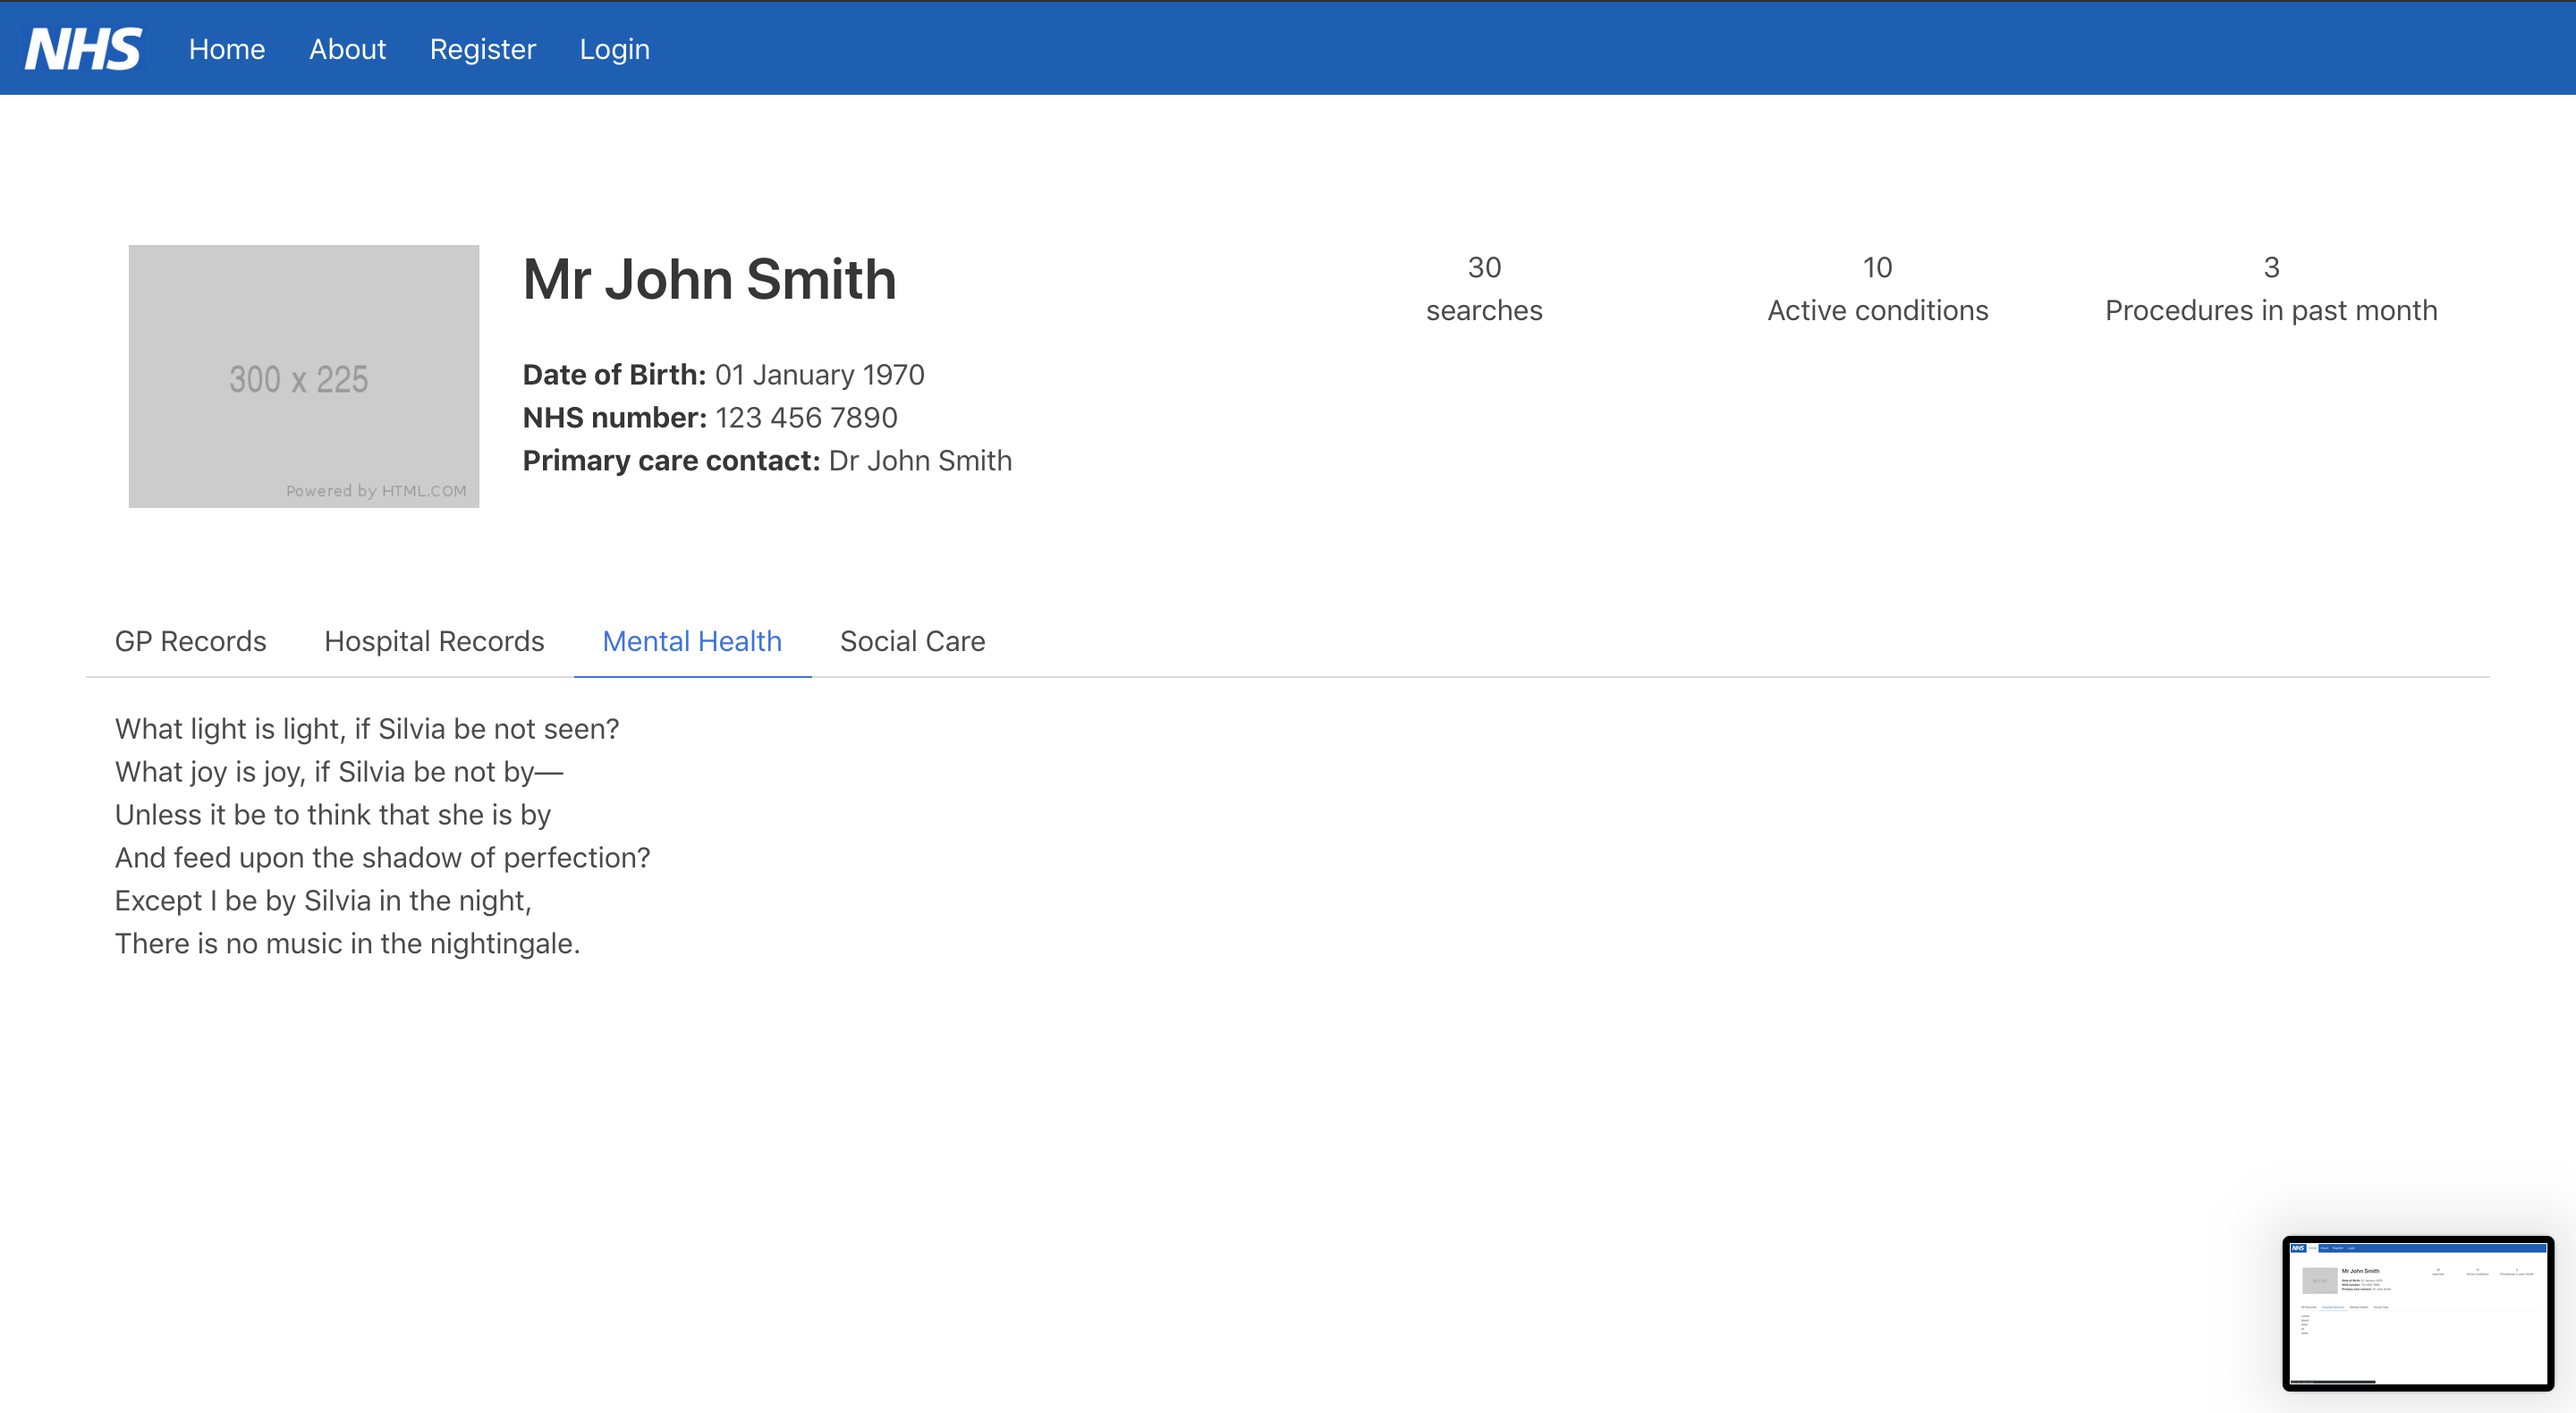
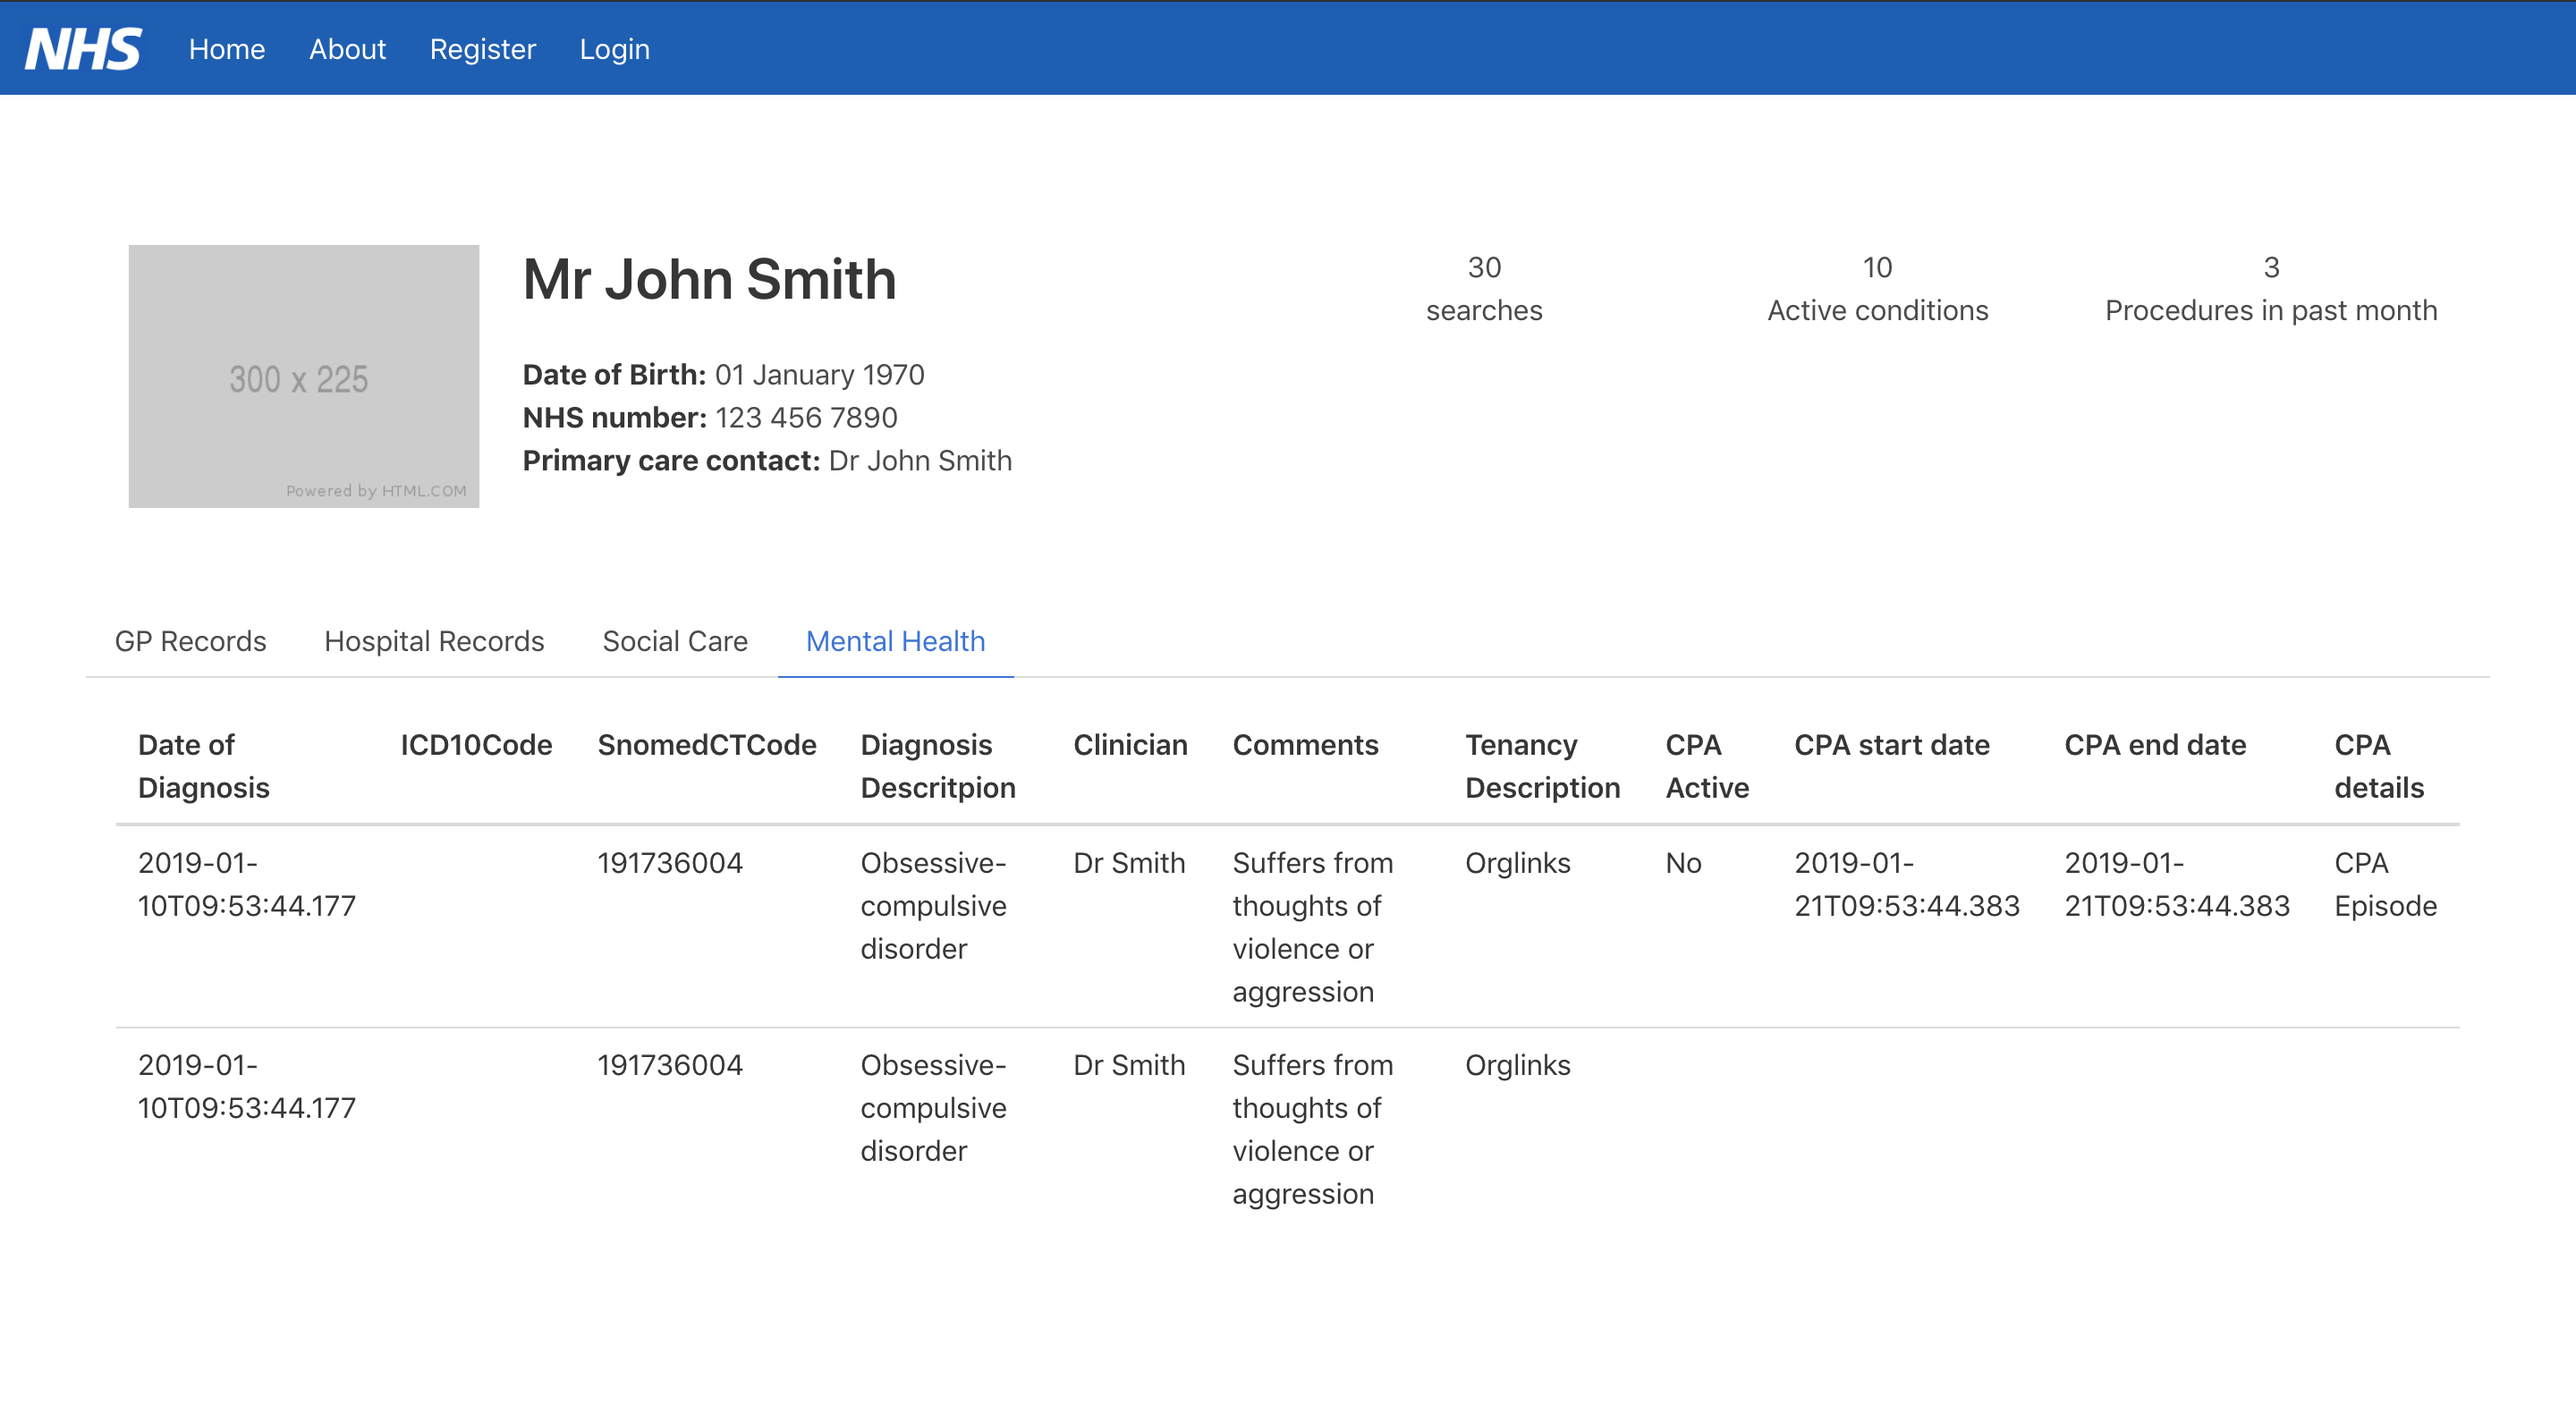
added meds and allergies

diff --git a/src/views/medications.vue b/src/views/medications.vue
@@ -1,0 +1,56 @@
+<template>
+    <b-table :data="data" :columns="columns"></b-table>
+</template>
+
+<script>
+    export default {
+        data() {
+            return {
+              data: [
+                {
+                  "Date": "16 May 2019",
+                  "Name": "Fluoxetine",
+                  "Dose": "20mg OD",
+                  "Prescribed by": "Dr Jones",
+                  "Review Date": "16 July 2019",
+                  "Repeat": "Yes"
+                },
+                {
+                  "Date": "02 February 2018",
+                  "Name": "Codeine",
+                  "Dose": "30mg BD",
+                  "Prescribed by": "Dr Jones",
+                  "Review Date": "-",
+                  "Repeat": "No"
+                }
+              ],
+              columns: [
+                {
+                  field: 'Date',
+                  label: 'Date',
+                },
+                {
+                  field: 'Name',
+                  label: 'Name',
+                },
+                {
+                  field: 'Dose',
+                  label: 'Dose',
+                },
+                {
+                  field: 'Prescribed by',
+                  label: 'Prescribed by',
+                },
+                {
+                  field: 'Review Date',
+                  label: 'Review Date',
+                },
+                {
+                  field: 'Repeat',
+                  label: 'Repeat',
+                }
+              ],
+            }
+        }
+    }
+</script>

diff --git a/src/views/allergies.vue b/src/views/allergies.vue
@@ -1,0 +1,38 @@
+<template>
+    <b-table :data="data" :columns="columns"></b-table>
+</template>
+
+<script>
+    export default {
+        data() {
+            return {
+              data: [
+                {
+                  "Date": "02 February 2018",
+                  "Name": "Codeine",
+                  "Reaction": "Vomiting",
+                  "Prescribed by": "Dr Jones",
+                }
+              ],
+              columns: [
+                {
+                  field: 'Date',
+                  label: 'Date',
+                },
+                {
+                  field: 'Name',
+                  label: 'Name',
+                },
+                {
+                  field: 'Reaction',
+                  label: 'Reaction',
+                },
+                {
+                  field: 'Prescribed by',
+                  label: 'Prescribed by',
+                },
+              ],
+            }
+        }
+    }
+</script>

diff --git a/src/views/Profile.vue b/src/views/Profile.vue
@@ -136,8 +136,16 @@
           <mental-health/>
         </b-tab-item>
 
+        <b-tab-item label="Allergies">
+          <allergies/>
+        </b-tab-item>
+
+        <b-tab-item label="Medications">
+          <medications/>
+        </b-tab-item>
+
       </b-tabs>
- 
+
     </div>
   </div>
 </div>
@@ -147,10 +155,14 @@
 import {getGpRecords} from '../services/api'
 import SocialCare from './SocialCare.vue'
 import MentalHealth from './MentalHealth.vue'
+import Allergies from './allergies.vue'
+import Medications from './medications.vue'
     export default {
       components: {
         'social-care': SocialCare,
         'mental-health': MentalHealth,
+        'allergies': Allergies,
+        'medications': Medications,
       },
       data() {
         return {
